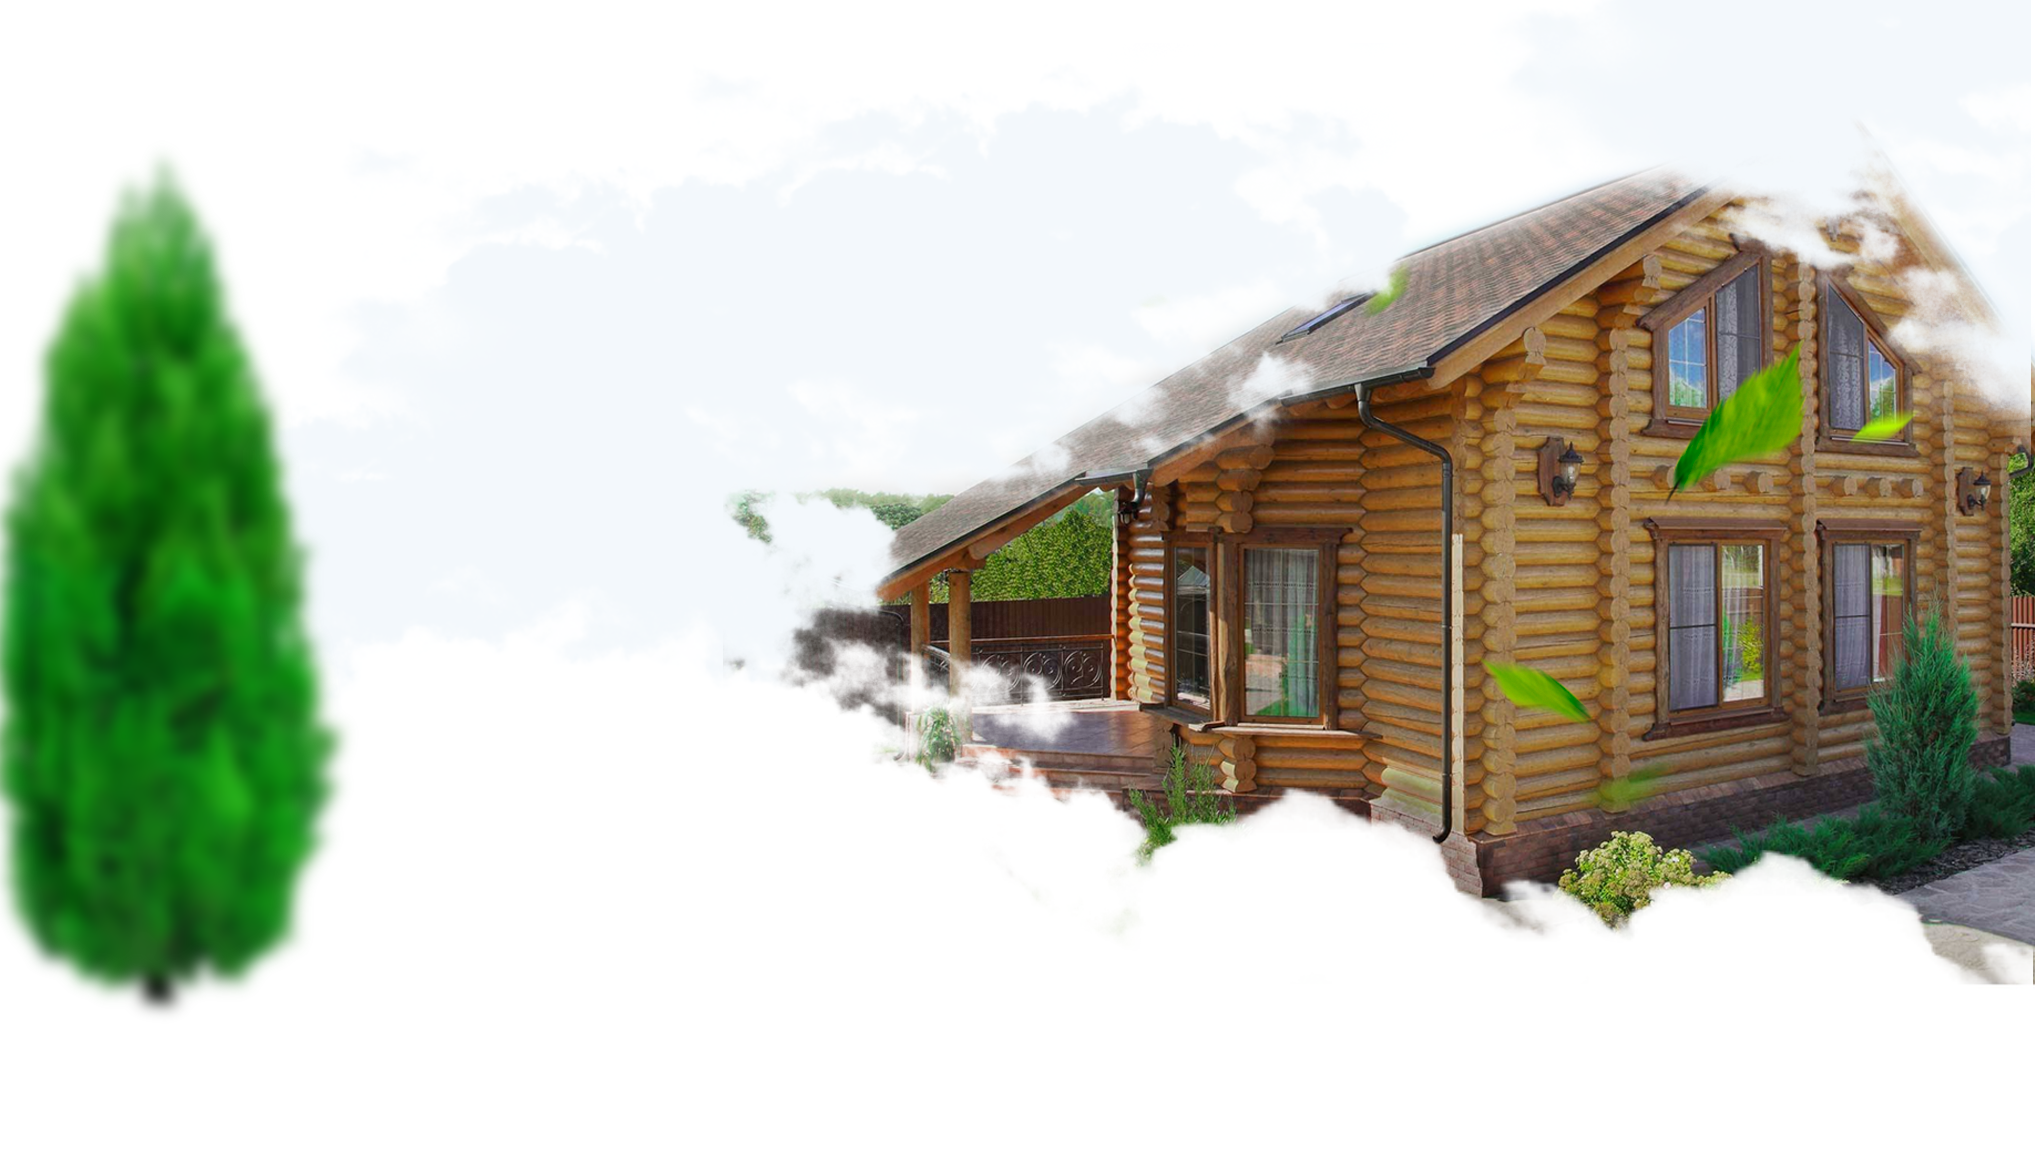
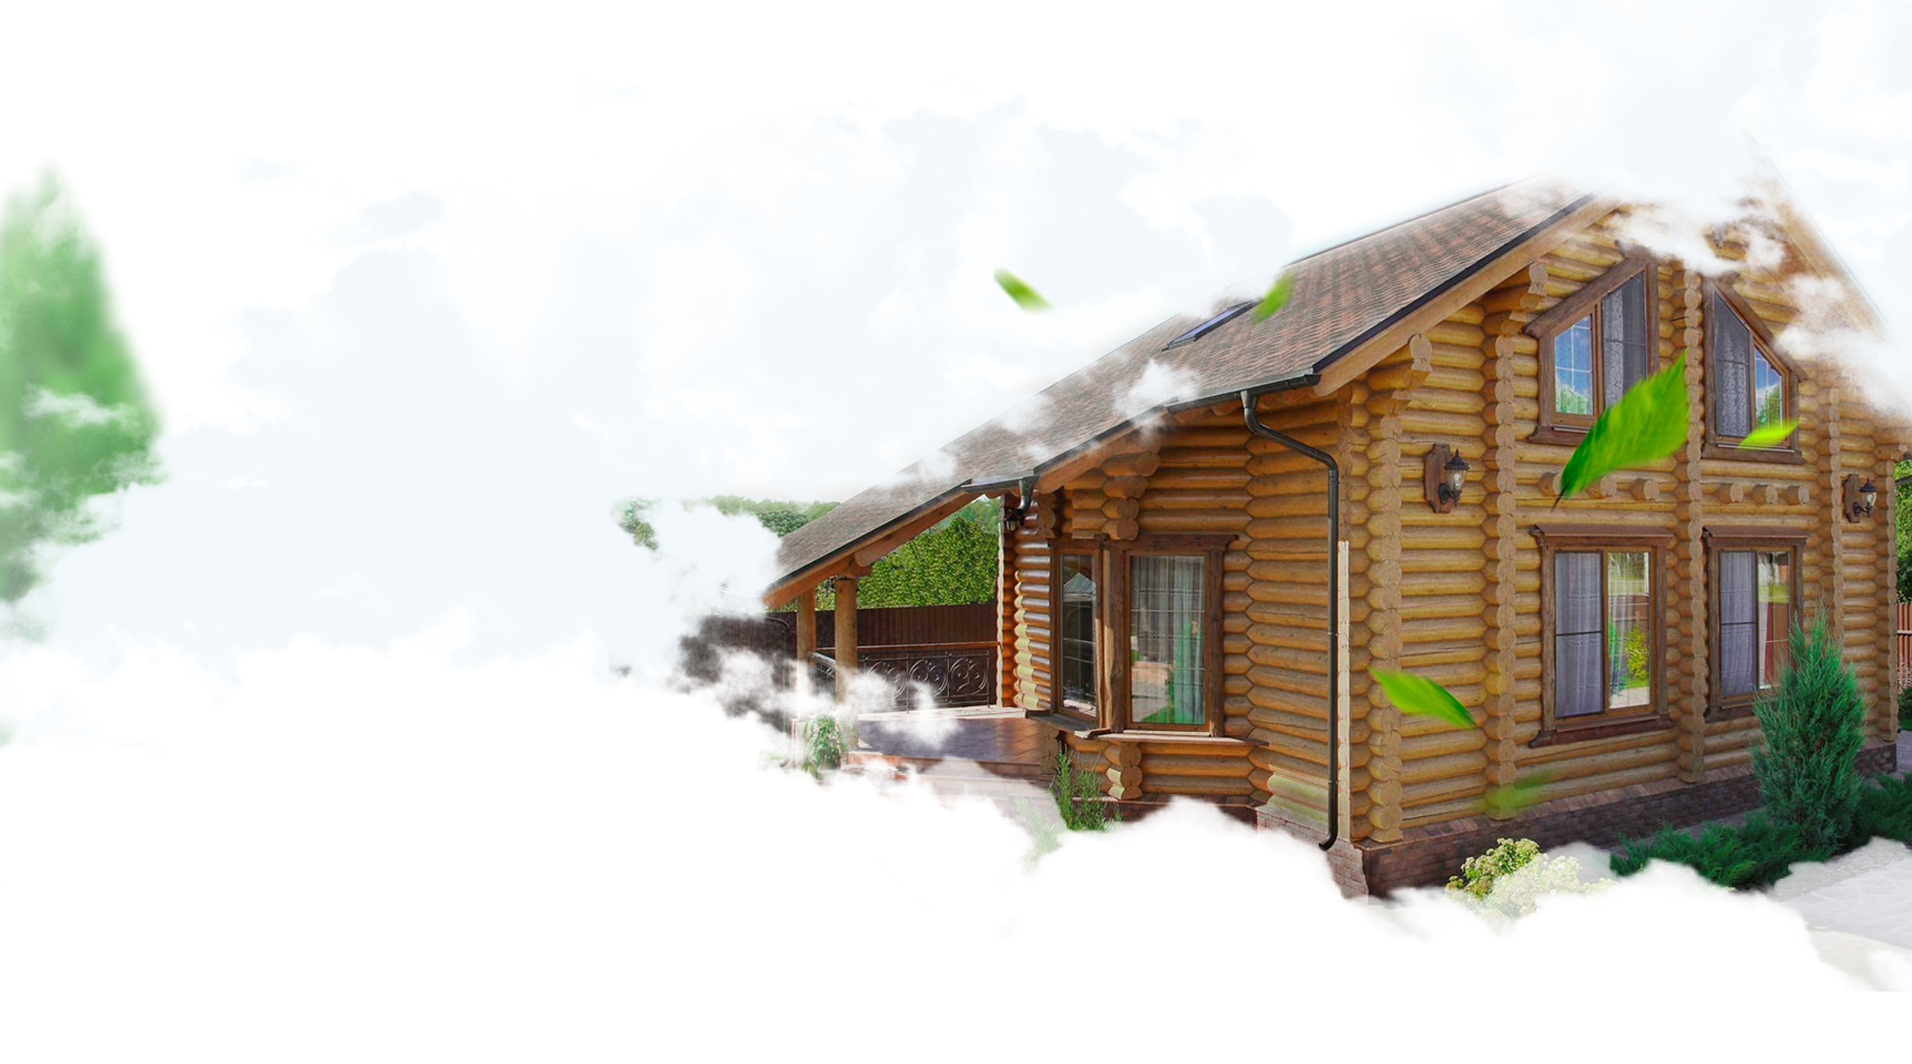
must fix adaptive

diff --git a/index.html b/index.html
@@ -48,28 +48,32 @@
 
             <div class="header-wrapper__banner">
                 <div class="banner__text">
-                    <h1>строим</h1> 
-                    <h1>современные</h1> 
-                    <h1>и уютные дома</h1>
+                    <div class="text__title">
+                        <h1>строим</h1> 
+                        <h1>современные</h1> 
+                        <h1>и уютные дома</h1>
+                        <p>В поселке Сосново и окрестностях</p>
+                    </div>
 
-                    <p>В поселке Сосново и окрестностях</p>
-
-                    <a href="#" class="check-out-order">
-                        Заказать выезд специалиста
-                    </a>
-
-                    <div class="banner__description">
-                        <img src="img/arrow.png" alt="">
-                        <div class="text">
-                            <p>
-                                Бесплатный выезд нашего специалиста
-                            </p>
-                            <p>
-                                Ответит на ваши вопросы и поможет
-                                определиться с домом!
-                            </p>
+                    <div class="text__with-button">
+                        <a href="#" class="check-out-order">
+                            Заказать выезд специалиста
+                        </a>
+    
+                        <div class="banner__description">
+                            <img src="img/arrow.png" alt="">
+                            <div class="text">
+                                <p>
+                                    Бесплатный выезд нашего специалиста
+                                </p>
+                                <p>
+                                    Ответит на ваши вопросы и поможет
+                                    определиться с домом!
+                                </p>
+                            </div>
                         </div>
                     </div>
+                    
                 </div>
             </div>
         </div>

diff --git a/styles/header_banner.sass b/styles/header_banner.sass
@@ -2,11 +2,13 @@
     .header-wrapper
         .header-wrapper__banner
             .banner__text
+                height: 80vh
                 display: flex
                 flex-direction: column
                 align-items: flex-start
+                justify-content: space-around
                 padding-left: 50px
-                padding-top: 50px
+                //padding-top: 50px
                 @media screen and ( max-width: 1441px )
                     padding-left: 30px
                 h1
@@ -28,11 +30,11 @@
 
                     @media screen and ( max-width: 1441px )
                         font-size: 1.3em
-                        margin-top: 40px
+                        //margin-top: 40px
 
                     @media screen and ( max-width: 1050px )
                         font-size: 1em
-                        margin-top: 30px
+                        //margin-top: 30px
                     //border: 1px solid
 
                 .check-out-order
@@ -41,15 +43,15 @@
                     padding: 20px 40px
                     background: linear-gradient(150deg, #33e7b9, #33e7b9, #3ce294, #98e05f, #98e05f)
                     border-radius: 500px
-                    margin-top: 100px
+                    //margin-top: 100px
 
                     @media screen and ( max-width: 1441px )
                         font-size: 1.3em
-                        margin-top: 60px
+                        //margin-top: 60px
 
                     @media screen and ( max-width: 1050px )
                         font-size: 1em
-                        margin-top: 40px
+                        //margin-top: 40px
                         padding: 15px 30px
 
                 .banner__description

diff --git a/styles/dist/header_banner.css b/styles/dist/header_banner.css
@@ -1,9 +1,10 @@
 .header .header-wrapper .header-wrapper__banner .banner__text {
+  height: 80vh;
   display: flex;
   flex-direction: column;
   align-items: flex-start;
+  justify-content: space-around;
   padding-left: 50px;
-  padding-top: 50px;
 }
 @media screen and (max-width: 1441px) {
   .header .header-wrapper .header-wrapper__banner .banner__text {
@@ -35,13 +36,11 @@
 @media screen and (max-width: 1441px) {
   .header .header-wrapper .header-wrapper__banner .banner__text p {
     font-size: 1.3em;
-    margin-top: 40px;
   }
 }
 @media screen and (max-width: 1050px) {
   .header .header-wrapper .header-wrapper__banner .banner__text p {
     font-size: 1em;
-    margin-top: 30px;
   }
 }
 .header .header-wrapper .header-wrapper__banner .banner__text .check-out-order {
@@ -50,18 +49,15 @@
   padding: 20px 40px;
   background: linear-gradient(150deg, #33e7b9, #33e7b9, #3ce294, #98e05f, #98e05f);
   border-radius: 500px;
-  margin-top: 100px;
 }
 @media screen and (max-width: 1441px) {
   .header .header-wrapper .header-wrapper__banner .banner__text .check-out-order {
     font-size: 1.3em;
-    margin-top: 60px;
   }
 }
 @media screen and (max-width: 1050px) {
   .header .header-wrapper .header-wrapper__banner .banner__text .check-out-order {
     font-size: 1em;
-    margin-top: 40px;
     padding: 15px 30px;
   }
 }

diff --git a/styles/header_navlink.sass b/styles/header_navlink.sass
@@ -1,5 +1,5 @@
 .header
-    background-image: url('../../img/back1.png')
+    background-image: url('../../img/back.png')
     background-size: cover
     background-repeat: no-repeat
     width: 100%

diff --git a/styles/dist/header_navlink.css b/styles/dist/header_navlink.css
@@ -1,5 +1,5 @@
 .header {
-  background-image: url("../../img/back1.png");
+  background-image: url("../../img/back.png");
   background-size: cover;
   background-repeat: no-repeat;
   width: 100%;
